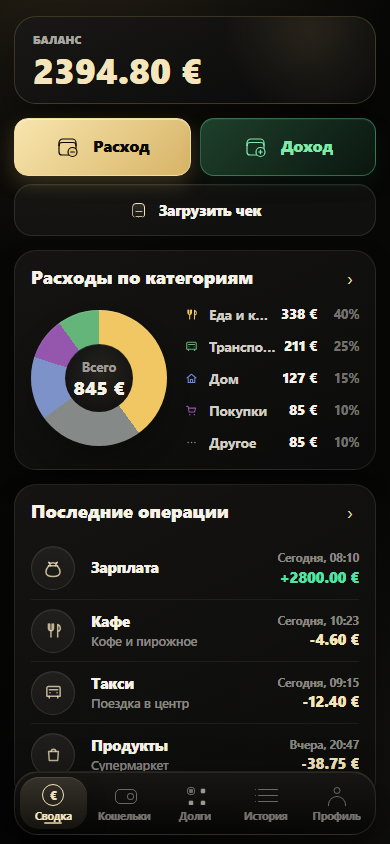
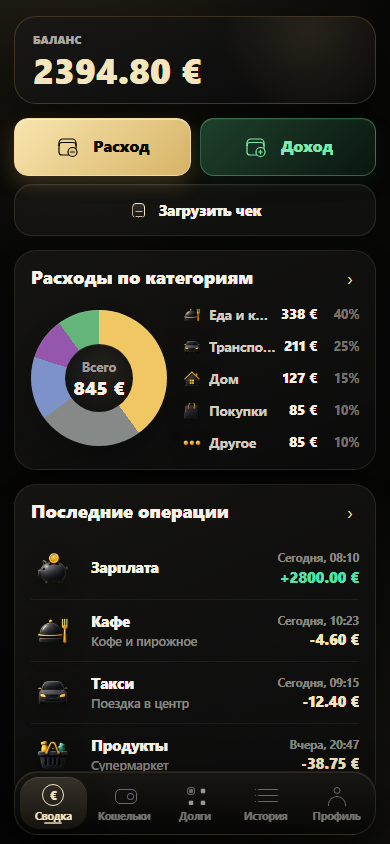
Update Mini App overview screenshot

diff --git a/index.html b/index.html
@@ -14,11 +14,11 @@
       content="Пиши текстом или голосом: Numqora записывает траты, ведет совместные расходы и отвечает, как у тебя дела с финансами."
     >
     <meta property="og:type" content="website">
-    <meta property="og:image" content="assets/numqora-overview.png">
+    <meta property="og:image" content="assets/numqora-overview.png?v=mini-icons-1">
     <title>Numqora - AI-ассистент для личных и совместных расходов</title>
     <link rel="icon" type="image/jpeg" href="assets/numqora-logo.jpg">
     <link rel="preload" href="assets/numqora-logo.jpg" as="image">
-    <link rel="preload" href="assets/numqora-overview.png" as="image">
+    <link rel="preload" href="assets/numqora-overview.png?v=mini-icons-1" as="image">
     <link rel="stylesheet" href="styles.css?v=phone-frame-8">
   </head>
   <body>
@@ -164,7 +164,7 @@
 
       <section class="section product-preview" aria-label="Интерфейс Numqora">
         <img
-          src="assets/numqora-overview.png"
+          src="assets/numqora-overview.png?v=mini-icons-1"
           width="390"
           height="844"
           alt="Экран Numqora с балансом, расходами по категориям и последними тратами"